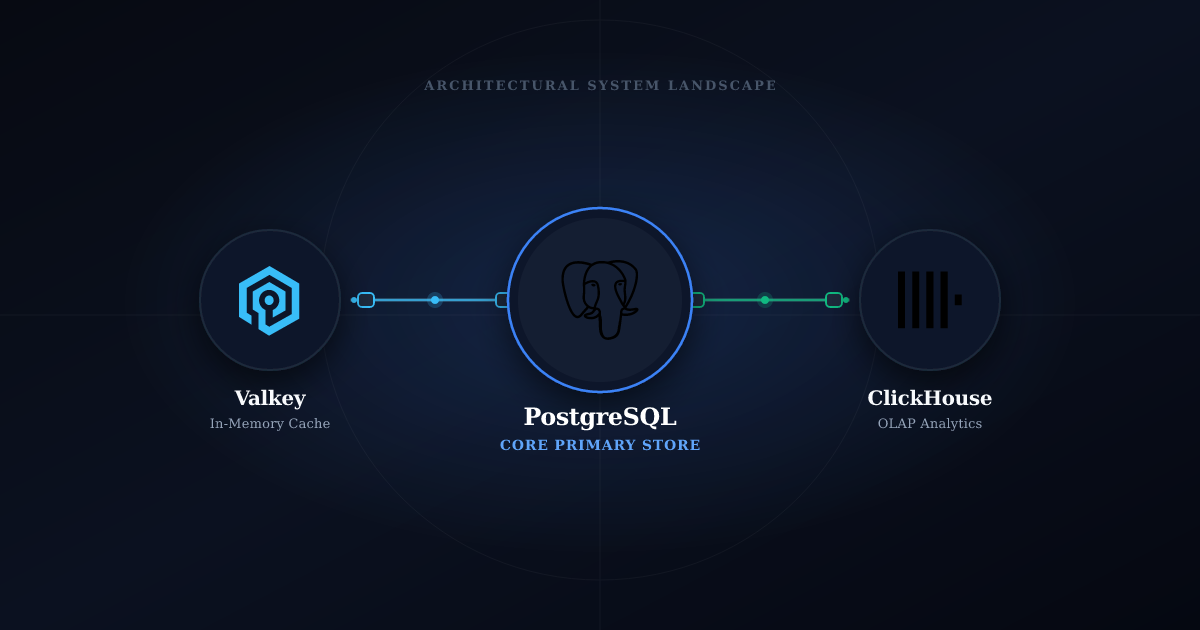
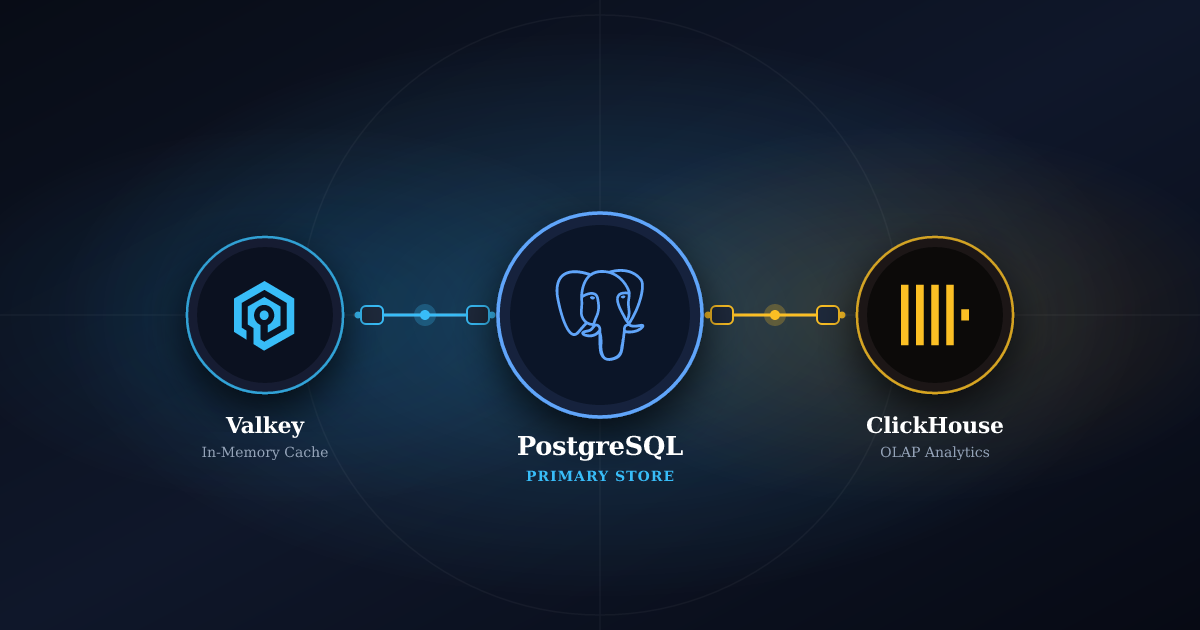
fix(posts): publish database article by correcting future release date, update covers with high contrast and clean labels

Changed region(s): [[0.0617, 0.3317, 0.8942, 0.7841], [0.3392, 0.1206, 0.6475, 0.1508], [0.4317, 0.3317, 0.555, 0.3921]]

diff --git a/content/posts/choosing-the-right-database/index.es.md b/content/posts/choosing-the-right-database/index.es.md
@@ -1,6 +1,6 @@
 ---
 title: "¿Cuál es la base de datos adecuada? PostgreSQL como estándar arquitectónico"
-date: 2026-10-09T10:00:00Z
+date: 2026-10-08T22:00:00Z
 description: "Por qué PostgreSQL es la arquitectura por defecto en proyectos modernos, cómo sustituye a bases de datos de nicho y los pocos escenarios donde los motores especializados realmente se justifican."
 summary: "PostgreSQL es la respuesta estándar para proyectos modernos de software. Esta guía evalúa criterios funcionales y operativos, mostrando cuándo una desviación tiene sentido real."
 tags: ["Bases de Datos", "PostgreSQL", "Arquitectura de Software", "Informática Empresarial"]

diff --git a/content/posts/choosing-the-right-database/index.en.md b/content/posts/choosing-the-right-database/index.en.md
@@ -1,6 +1,6 @@
 ---
 title: "Choosing the Right Database: PostgreSQL as the Architectural Standard"
-date: 2026-10-09T10:00:00Z
+date: 2026-10-08T22:00:00Z
 description: "Why PostgreSQL is the default architecture for modern projects, how it replaces niche databases, and the few scenarios where specialized engines are actually justified."
 summary: "PostgreSQL is the default answer for modern software projects. This guide evaluates functional and operational criteria, highlighting when deviations actually make sense."
 tags: ["Databases", "PostgreSQL", "Software Architecture", "Business Informatics"]

diff --git a/content/posts/choosing-the-right-database/index.de.md b/content/posts/choosing-the-right-database/index.de.md
@@ -1,6 +1,6 @@
 ---
 title: "Welche Datenbank ist die richtige?"
-date: 2026-10-09T10:00:00Z
+date: 2026-10-08T22:00:00Z
 description: "PostgreSQL als Standardarchitektur, seine Stärken gegen Nischensysteme und die wenigen Szenarien, in denen spezialisierte Datenbanken wirklich berechtigt sind."
 summary: "PostgreSQL ist für moderne Softwareprojekte die Standardantwort. Dieser Leitfaden analysiert funktionale und betriebliche Kriterien und zeigt, wann Abweichungen wirklich Sinn ergeben."
 tags: ["Datenbanken", "PostgreSQL", "Softwarearchitektur", "Wirtschaftsinformatik"]
